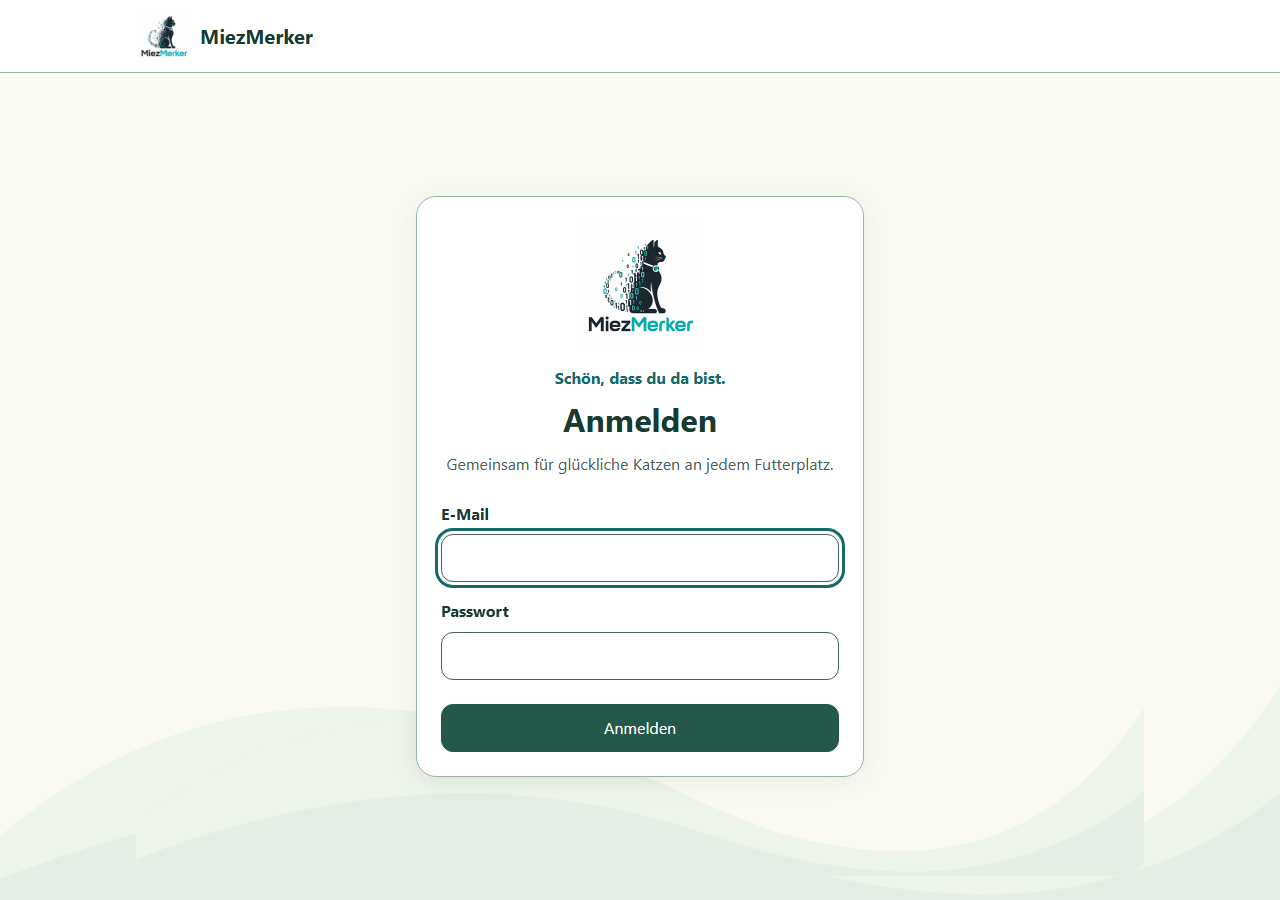
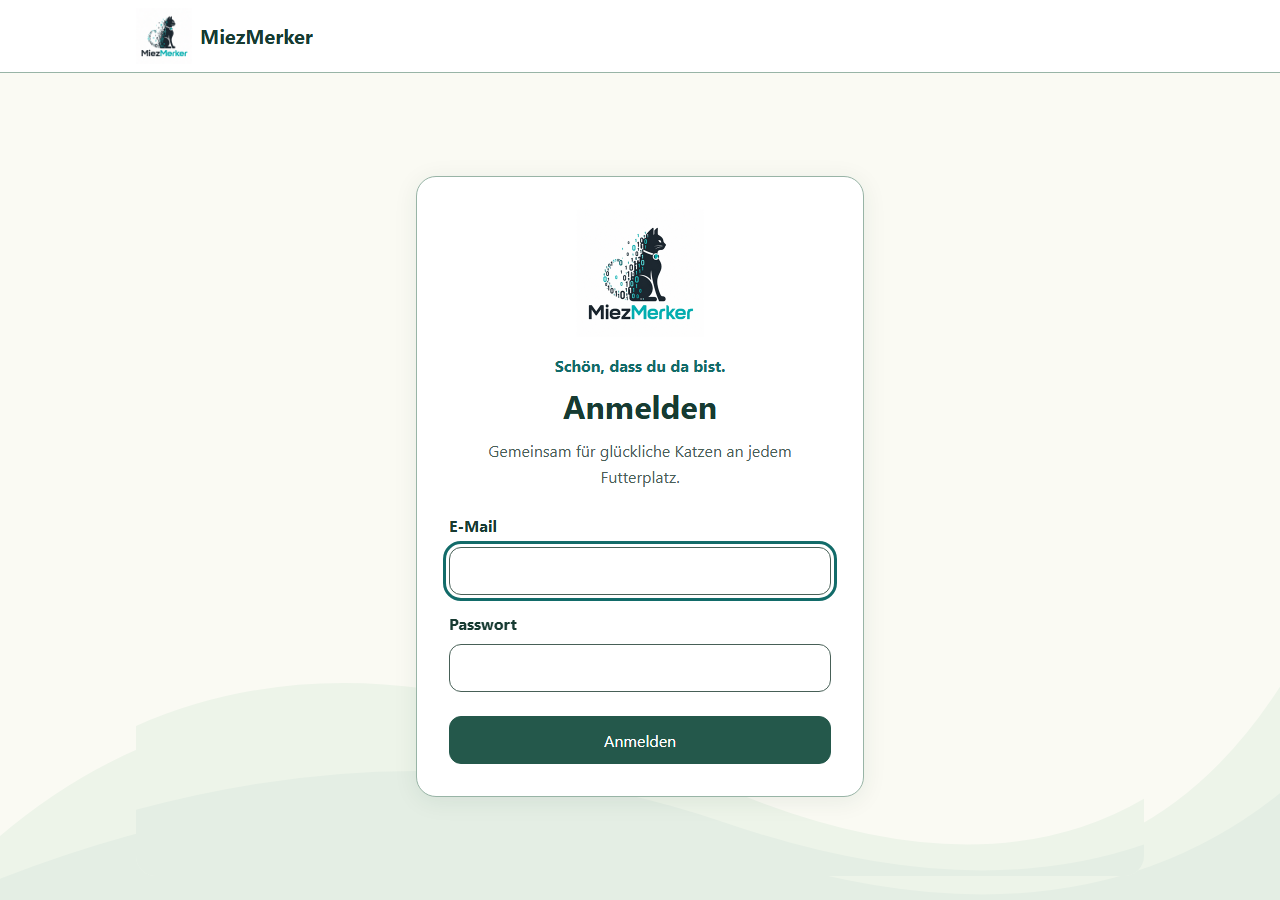
fix(login): preserve artwork sizing over shared styles

Changed region(s): [[0.3438, 0.4044, 0.6562, 0.7156], [0.3125, 0.7778, 0.6562, 0.9022], [0.4375, 0.2489, 0.5625, 0.3733]]

diff --git a/app/e2e/login.spec.ts b/app/e2e/login.spec.ts
@@ -115,3 +115,29 @@ test('network failure offers safe connection guidance', async ({ page }) => {
   await expect(page.getByRole('alert')).toContainText('Internetverbindung prüfen');
   await expect(page.getByRole('navigation')).toHaveCount(0);
 });
+
+test('replacement artwork retains reserved logo dimensions and background cropping', async ({ page }) => {
+  await backend(page);
+  let release!: () => void;
+  const hold = new Promise<void>(resolve => { release = resolve; });
+  await page.route('**/assets/logo-*.png', async route => {
+    await hold;
+    // Deliberately different intrinsic proportions from the original logo.
+    await route.fulfill({ contentType: 'image/svg+xml',
+      body: '<svg xmlns="http://www.w3.org/2000/svg" width="400" height="40"><rect width="400" height="40" fill="#24584b"/></svg>' });
+  });
+  await page.goto('/', { waitUntil: 'domcontentloaded' });
+  const logo = page.locator('.login-logo');
+  await expect(logo).toBeVisible();
+  const before = (await logo.boundingBox())!;
+  expect(before.width).toBe(128);
+  expect(before.height).toBe(128);
+  expect(await page.locator('.login-background').evaluate(element => getComputedStyle(element).objectFit)).toBe('cover');
+  release();
+  await expect.poll(() => logo.evaluate(element => (element as HTMLImageElement).naturalWidth)).toBe(400);
+  const after = (await logo.boundingBox())!;
+  expect(after.width).toBe(before.width);
+  expect(after.height).toBe(before.height);
+  expect(await logo.evaluate(element => getComputedStyle(element).objectFit)).toBe('contain');
+  expect(await page.getByRole('main').evaluate(element => element.scrollWidth <= element.clientWidth)).toBe(true);
+});

diff --git a/app/src/platform/login.css b/app/src/platform/login.css
@@ -6,7 +6,7 @@
   place-items: center;
   padding-block: var(--space-4);
 }
-.login-background {
+.login-page .login-background {
   position: absolute;
   z-index: -1;
   inset-inline: 0;
@@ -17,12 +17,12 @@
   border-radius: var(--radius-card);
   pointer-events: none;
 }
-.login-card {
+.login-page .login-card {
   inline-size: min(100%, 28rem);
   min-inline-size: 0;
   padding: clamp(1rem, 4vw, 2rem);
 }
-.login-logo {
+.login-page .login-logo {
   inline-size: 8rem;
   block-size: 8rem;
   margin-inline: auto;
@@ -48,5 +48,5 @@
 .login-card .status-card { padding: var(--space-3); box-shadow: none; margin-block-end: 0; }
 @media (max-height: 600px) {
   .login-page { padding-block: 0; }
-  .login-logo { inline-size: 5rem; block-size: 5rem; }
+  .login-page .login-logo { inline-size: 5rem; block-size: 5rem; }
 }

diff --git a/app/src/platform/LoginView.test.tsx b/app/src/platform/LoginView.test.tsx
@@ -48,7 +48,7 @@ test('form submission announces loading, blocks duplicate submits and clears pas
   fillAndSubmit();
   expect(login).toHaveBeenCalledWith('volunteer@example.org', 'test-password');
   expect((screen.getByRole('button') as HTMLButtonElement).disabled).toBe(true);
-  expect((await screen.findByRole('status')).textContent).toContain('Anmeldung wird geprüft');
+  await waitFor(() => expect(screen.getByRole('status').textContent).toContain('Anmeldung wird geprüft'));
   fireEvent.submit(screen.getByRole('form'));
   expect(login).toHaveBeenCalledTimes(1);
   resolve();

diff --git a/docs/ui-ux/login-48-verification.md b/docs/ui-ux/login-48-verification.md
@@ -18,10 +18,13 @@ uses `object-fit: cover`. Both remain in the production Workbox precache.
 
 - Compact frontend regression: 109 tests passed across `src/platform`,
   `src/App.test.tsx` and `src/ui/ui.test.tsx`.
-- Playwright: 11 login tests and 4 existing auth-gate tests passed. Login
+- Playwright: 12 login tests and 4 existing auth-gate tests passed. Login
   viewports: 320×740, 390×844, 430×932, 768×1024, 1280×900, 844×390 and 390×360.
   Document and main scroll width fit the viewport. Inputs and submit action
   meet 44px touch targets; inputs have at least 16px text.
+- Artwork replacement regression delays loading of a wide replacement logo and
+  checks its reserved dimensions before/after loading, plus background cropping.
+  Login artwork/card selectors override the later shared graphic/card styles.
 - Keyboard Tab order, visible focus and Enter submission verified. Loading
   announces status and disables submission. Error feedback is announced and
   associated with the fields; 401, 500 and network failures expose no raw details.
